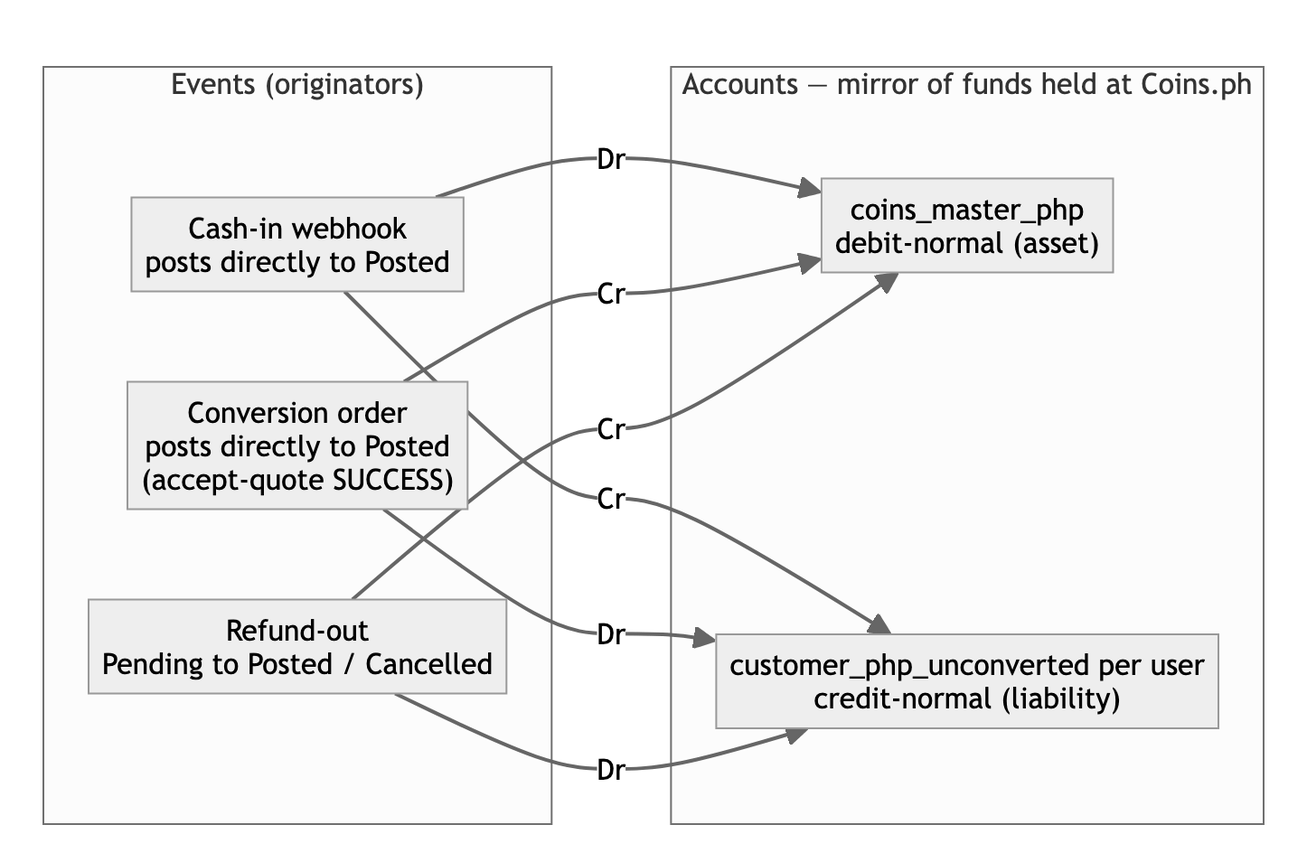
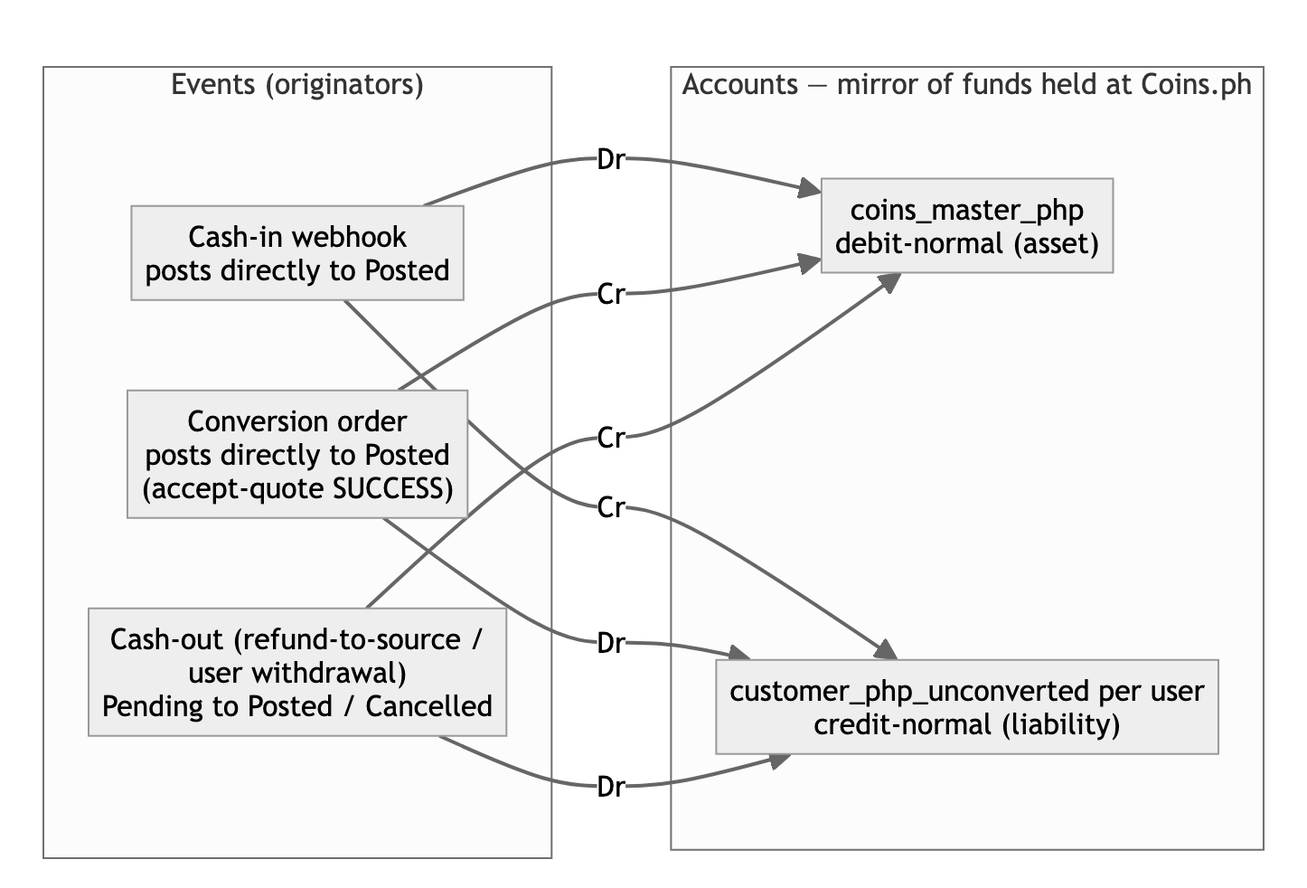
Ledger: refund_out unified into cash_out (one PHP-out type over fiat/v1/cash-out; cash_out_type = refund_to_source / user_withdrawal carries the policy rules) — Steve 10/02

diff --git a/tracks/c-usdc-vasp-privy/research/diagrams/order-lifecycle.html b/tracks/c-usdc-vasp-privy/research/diagrams/order-lifecycle.html
@@ -2,9 +2,9 @@
 <script src="https://cdnjs.cloudflare.com/ajax/libs/mermaid/10.9.1/mermaid.min.js"></script>
 <style>html{overflow:hidden}body{background:#fff;margin:0;padding:16px;font-family:-apple-system,Helvetica,Arial}</style>
 </head><body><pre class="mermaid">stateDiagram-v2
-    [*] --> Pending: refund initiated —<br/>funds earmarked (pending JEs)
+    [*] --> Pending: cash-out initiated —<br/>funds earmarked (pending JEs)
     Pending --> Posted: provider confirms payout —<br/>pending JEs discarded, posted JEs written
-    Pending --> Cancelled: refund fails — no net effect,<br/>PHP stays unconverted (ops alerted)
+    Pending --> Cancelled: cash-out fails — no net effect,<br/>PHP stays unconverted (ops alerted)
     Posted --> [*]
     Cancelled --> [*]
 </pre>

diff --git a/tracks/c-usdc-vasp-privy/research/diagrams/ledger-postings.html b/tracks/c-usdc-vasp-privy/research/diagrams/ledger-postings.html
@@ -5,7 +5,7 @@
   subgraph EVENTS["Events (originators)"]
     CI["Cash-in webhook<br/>posts directly to Posted"]
     CV["Conversion order<br/>posts directly to Posted<br/>(accept-quote SUCCESS)"]
-    RF["Refund-out<br/>Pending to Posted / Cancelled"]
+    RF["Cash-out (refund-to-source /<br/>user withdrawal)<br/>Pending to Posted / Cancelled"]
   end
   subgraph ACCOUNTS["Accounts — mirror of funds held at Coins.ph"]
     MA["coins_master_php<br/>debit-normal (asset)"]

diff --git a/tracks/c-usdc-vasp-privy/research/diagrams/schema-er.html b/tracks/c-usdc-vasp-privy/research/diagrams/schema-er.html
@@ -4,7 +4,7 @@
 </head><body><pre class="mermaid">erDiagram
   coins_cash_in_events |o--o| Ledger_Groups : opens
   coins_orders |o--o| Ledger_Groups : opens
-  coins_refunds |o--|| Ledger_Groups : opens
+  coins_cash_outs |o--|| Ledger_Groups : opens
   ledger_adjustments |o--|| Ledger_Groups : opens
   Ledger_Groups ||--|{ Ledger_Transactions : "has 1 or 2"
   Ledger_Transactions ||--|{ Ledger_Entries : "contains 2"

diff --git a/tracks/c-usdc-vasp-privy/research/php-ledger-design.md b/tracks/c-usdc-vasp-privy/research/php-ledger-design.md
@@ -1,6 +1,6 @@
 # PHP Pending-Balance Ledger — design v0.1
 
-**Status:** draft, updated 2026-10-02 (no Pending stage for conversions in the MVP, decided 10/02 — post to Posted on the accept-quote **terminal `SUCCESS`**, refined same day from the public REST docs; refund-out keeps the two-step lifecycle — §§1–5, D-L8/D-L10). Implements PRD C-R7/C-R7a/C-R4b.
+**Status:** draft, updated 2026-10-02 (no Pending stage for conversions in the MVP, decided 10/02 — post to Posted on the accept-quote **terminal `SUCCESS`**, refined same day from the public REST docs; **refund-out unified into `cash_out`** (one PHP-out type; `cash_out_type` = refund_to_source / user_withdrawal — Steve, 10/02), which keeps the two-step lifecycle — §§1–5, D-L8/D-L10). Implements PRD C-R7/C-R7a/C-R4b.
 **Lineage:** deliberately follows the conventions of Steve's card-product design ("Shadow Ledger Redux," Notion, fetched 9/23 → SOURCES.md): the `Ledger_Accounts` / `Ledger_Transactions` / `Ledger_Entries` triad, credit/debit-normal accounts, Pending→Posted lifecycle via `group_id` + `discarded_at`, account-level balance state maintained under row locks, an originator table behind every ledger posting. Where this design diverges, the divergence is called out with a ❖.
 
 ## 0. Why this is the simple case
@@ -26,7 +26,7 @@ flowchart LR
   subgraph EVENTS["Events (originators)"]
     CI["Cash-in webhook<br/>posts directly to Posted"]
     CV["Conversion order<br/>posts directly to Posted<br/>(accept-quote SUCCESS)"]
-    RF["Refund-out<br/>Pending to Posted / Cancelled"]
+    RF["Cash-out (refund-to-source /<br/>user withdrawal)<br/>Pending to Posted / Cancelled"]
   end
   subgraph ACCOUNTS["Accounts — mirror of funds held at Coins.ph"]
     MA["coins_master_php<br/>debit-normal (asset)"]
@@ -40,7 +40,7 @@ flowchart LR
   RF -->|"Cr"| MA
 ```
 
-❖ **No clearing/in-flight accounts.** Where in-flight state exists at all (refund-out only — conversions post synchronously, §3), it is carried by `status = Pending` transactions on a `group_id`, exactly like a card auth. Alternative considered: explicit clearing accounts — rejected for v0.1 (adds accounts without adding information; revisit if ops wants in-flight as a balance-sheet line). **← Steve to confirm (D-L1).**
+❖ **No clearing/in-flight accounts.** Where in-flight state exists at all (cash-out only — conversions post synchronously, §3), it is carried by `status = Pending` transactions on a `group_id`, exactly like a card auth. Alternative considered: explicit clearing accounts — rejected for v0.1 (adds accounts without adding information; revisit if ops wants in-flight as a balance-sheet line). **← Steve to confirm (D-L1).**
 
 ## 2. Tables and schemas
 
@@ -50,7 +50,7 @@ flowchart LR
 erDiagram
   coins_cash_in_events |o--o| Ledger_Groups : opens
   coins_orders |o--o| Ledger_Groups : opens
-  coins_refunds |o--|| Ledger_Groups : opens
+  coins_cash_outs |o--|| Ledger_Groups : opens
   ledger_adjustments |o--|| Ledger_Groups : opens
   Ledger_Groups ||--|{ Ledger_Transactions : "has 1 or 2"
   Ledger_Transactions ||--|{ Ledger_Entries : "contains 2"
@@ -62,12 +62,12 @@ erDiagram
 | Table | Kind | One row per |
 |---|---|---|
 | `Ledger_Accounts` | Core | Account — one `coins_master_php`, plus one per user |
-| `Ledger_Groups` | Core | Lifecycle — one cash-in, order, refund, or adjustment |
+| `Ledger_Groups` | Core | Lifecycle — one cash-in, order, cash-out, or adjustment |
 | `Ledger_Transactions` | Core | Accounting transaction — one or two per group (§2.4) |
 | `Ledger_Entries` | Core | Debit or credit line — two per transaction |
 | `coins_cash_in_events` | Originator | Cash-in webhook received |
 | `coins_orders` | Originator | Conversion order |
-| `coins_refunds` | Originator | Refund-out |
+| `coins_cash_outs` | Originator | Cash-out (refund-to-source or user withdrawal) |
 | `ledger_adjustments` | Originator | Dual-approved manual correction |
 
 ### 2.2 Core ledger tables
@@ -95,7 +95,7 @@ Redux's tables, with the changes marked ❖.
 | Field | Type | Description |
 |---|---|---|
 | `id` | UUID, primary key | The `group_id` that ties a Pending transaction to its replacement |
-| `group_type` | Enum: `cash_in` / `conversion` / `refund_out` / `adjustment` | Redux's values are Charge / Payment |
+| `group_type` | Enum: `cash_in` / `conversion` / `cash_out` / `adjustment` | Redux's values are Charge / Payment |
 | `created_at` | Datetime | |
 
 **`Ledger_Transactions`**
@@ -105,7 +105,7 @@ Redux's tables, with the changes marked ❖.
 | `id` | UUID, primary key | |
 | `group_id` | UUID, foreign key → `Ledger_Groups` | Every transaction belongs to a group |
 | `status` | Enum: `pending` / `posted` / `cancelled` | Written once at insert, never updated |
-| `transaction_type` | Enum: `cash_in` / `conversion` / `refund_out` / `adjustment` | Same value as the group's `group_type` |
+| `transaction_type` | Enum: `cash_in` / `conversion` / `cash_out` / `adjustment` | Same value as the group's `group_type` |
 | `effective_at` | Datetime | When the event took effect at Coins.ph |
 | `discarded_at` | Datetime, nullable | Set once, when a Pending transaction is replaced — the only field updated after insert |
 | `created_at` | Datetime | |
@@ -126,7 +126,7 @@ Constraint: at most one non-discarded transaction per group (partial unique inde
 
 ### 2.3 Originator tables
 
-Each originator row opens one group and points at it with `group_id`. ❖ Redux's originators (Network_Messages, Payments) point at a single `ledger_transaction_id`; here a refund writes two transactions on one group, so the link is to the group (conversions write one since the 10/02 decision, but keep the same shape). **← Steve to confirm (D-L9).**
+Each originator row opens one group and points at it with `group_id`. ❖ Redux's originators (Network_Messages, Payments) point at a single `ledger_transaction_id`; here a cash-out writes two transactions on one group, so the link is to the group (conversions write one since the 10/02 decision, but keep the same shape). **← Steve to confirm (D-L9).**
 
 Columns marked "Coins.ph" come from its webhooks and API responses. Their field names are not confirmed yet (OQ-6) and get mapped when test-environment payloads are captured.
 
@@ -165,13 +165,13 @@ Columns marked "Coins.ph" come from its webhooks and API responses. Their field 
 
 Constraint: at most one `initiated` order per user (partial unique index on `user_id` where `status = 'initiated'`) — the double-convert guard now that conversions carry no ledger hold (§5).
 
-**`coins_refunds`** — one row per refund-out.
+**`coins_cash_outs`** — one row per cash-out (PHP out, via `fiat/v1/cash-out` or ops). One mechanical type covers both intents — same endpoint, postings, and lifecycle; `cash_out_type` carries the distinction and its rules: `refund_to_source` pays the deposit's original funding source (sender details from the cash-in `raw_payload`; never a Zed account — C-R4b(d)) and is maker-checker approved when ops-initiated; `user_withdrawal` is user-instructed, to the user's own account.
 
 | Field | Type | Description | Source |
 |---|---|---|---|
 | `id` | UUID, primary key | | Zed |
 | `user_id` | UUID, foreign key | | Zed |
-| `refund_type` | Enum: `refund_to_source` / `user_withdrawal` | C-R6 remedy, or user-requested PHP withdrawal | Zed |
+| `cash_out_type` | Enum: `refund_to_source` / `user_withdrawal` | C-R6 remedy, or user-requested PHP withdrawal | Zed |
 | `mechanism` | Enum: `api` / `manual` | API if Coins.ph supports it (OQ-13); otherwise ops through Coins.ph's interface | Zed |
 | `amount` | `BIGINT` centavos | | Zed |
 | `destination` | JSONB | Bank or e-wallet account the PHP returns to | Cash-in payload, or user input |
@@ -200,7 +200,7 @@ Constraint: at most one `initiated` order per user (partial unique index on `use
 |---|---|---|---|
 | `cash_in` | one `coins_cash_in_events` | One: Posted | Dr `coins_master_php` / Cr customer |
 | `conversion` | one `coins_orders` | One: Posted, written on the accept-quote terminal `SUCCESS` (normally inline in the response). A decline or FAILED writes no ledger rows (order row marked `failed`) | Dr customer / Cr `coins_master_php` |
-| `refund_out` | one `coins_refunds` | Two: Pending at initiation, then Posted (confirmed) or Cancelled (failed); the Pending row gets `discarded_at` | Dr customer / Cr `coins_master_php` |
+| `cash_out` | one `coins_cash_outs` | Two: Pending at initiation, then Posted (confirmed) or Cancelled (failed); the Pending row gets `discarded_at` | Dr customer / Cr `coins_master_php` |
 | `adjustment` | one `ledger_adjustments` | One: Posted | Compensating entries, per case |
 
 §3 walks through these rows for each type.
@@ -265,22 +265,22 @@ The later order webhook adds the tx hash to `coins_orders` — delivery confirma
 
 The ₱3,000 becomes unavailable the moment the Posted transaction lands — normally sub-seconds after the user confirms. Until then (the pre-call window, or a rare non-terminal response) the double-convert guard is the one-open-order rule (§2.3, §5), not a ledger hold.
 
-### Refund-out: user_1 gets ₱2,000 returned to source
+### Cash-out: user_1 gets ₱2,000 paid out (refund-to-source shown; a user withdrawal is mechanically identical)
 
-**The only two-step type in v0.1** — a provider payout confirmation is genuinely asynchronous (confirmed by the public docs: `fiat/v1/cash-out` returns order IDs, not a result, and Coins.ph allows only one cash-out in progress per account — error 88010012, which also means ops must serialize refunds at the master-account level), so the Pending lifecycle stays here: Pending (Dr `cust_u1` / Cr `coins_master_php`) on initiation → on confirmation, discard the Pending (`discarded_at` set) and write its Posted replacement on the same `group_id` in one atomic DB transaction (§5) → or Cancelled on failure (no net effect). Identical whether executed via API (if OQ-13 confirms) or manually by ops through Coins' interface (dual-approved; postings entered via `adjustment`-style tooling but typed `refund_out`).
+**The only two-step type in v0.1** — a provider payout confirmation is genuinely asynchronous (confirmed by the public docs: `fiat/v1/cash-out` returns order IDs, not a result, and Coins.ph allows only one cash-out in progress per account — error 88010012, which also means ops must serialize cash-outs at the master-account level), so the Pending lifecycle stays here: Pending (Dr `cust_u1` / Cr `coins_master_php`) on initiation → on confirmation, discard the Pending (`discarded_at` set) and write its Posted replacement on the same `group_id` in one atomic DB transaction (§5) → or Cancelled on failure (no net effect). Identical whether executed via API (if OQ-13 confirms) or manually by ops through Coins' interface (dual-approved; postings entered via `adjustment`-style tooling but typed `cash_out`).
 
 ```mermaid
 stateDiagram-v2
-    [*] --> Pending: refund initiated —<br/>funds earmarked (pending JEs)
+    [*] --> Pending: cash-out initiated —<br/>funds earmarked (pending JEs)
     Pending --> Posted: provider confirms payout —<br/>pending JEs discarded, posted JEs written
-    Pending --> Cancelled: refund fails — no net effect,<br/>PHP stays unconverted (ops alerted)
+    Pending --> Cancelled: cash-out fails — no net effect,<br/>PHP stays unconverted (ops alerted)
     Posted --> [*]
     Cancelled --> [*]
 ```
 
-The ₱2,000 is unavailable from the moment the refund is initiated: **`available_balance`** (§4.2) counts pending decreases.
+The ₱2,000 is unavailable from the moment the cash-out is initiated: **`available_balance`** (§4.2) counts pending decreases.
 
-❖ **Not the Redux `current_balance`,** as the first version of this doc called it. That formula counts pending increases and ignores pending decreases, so it would leave the ₱2,000 spendable while the refund is in flight. Behavior is unchanged; the name and formula are corrected (§4.2). **← Steve to confirm (D-L6).**
+❖ **Not the Redux `current_balance`,** as the first version of this doc called it. That formula counts pending increases and ignores pending decreases, so it would leave the ₱2,000 spendable while the cash-out is in flight. Behavior is unchanged; the name and formula are corrected (§4.2). **← Steve to confirm (D-L6).**
 
 ## 4. Balance model
 
@@ -323,18 +323,18 @@ Shorthand: PD = `posted_debits`, PC = `posted_credits`, UD = `pending_debits`, U
 
 - **Computed on read** (query, view, getter, or generated column); writers only move the four counters.
 - **`pending_balance` keeps its Redux meaning** — it is not the net of pending-only entries (`UC - UD`).
-- **`available_balance` is what the app displays** and what every conversion and refund-out request is checked against (§5).
-- **In v0.1 the pending counters move only on refund-out** — conversions post synchronously on the 200 (§3) and cash-in posts directly (D-L2).
+- **`available_balance` is what the app displays** and what every conversion and cash-out request is checked against (§5).
+- **In v0.1 the pending counters move only on cash-out** — conversions post synchronously on the 200 (§3) and cash-in posts directly (D-L2).
 - **In v0.1 customer accounts never have pending credits** (cash-in posts directly, D-L2), so `available_balance` equals `pending_balance`. If a pending cash-in stage is added, an uncleared deposit is correctly not spendable.
 - **`coins_master_php` has no spending decision:** `posted_balance` anchors external reconciliation (I3); `pending_balance` serves I1.
 
 ## 5. Write path, concurrency and correctness
 
-**The flow to build:** every ledger event (cash-in webhook, conversion posting on accept-quote `SUCCESS`, refund step, adjustment) runs in one database transaction:
+**The flow to build:** every ledger event (cash-in webhook, conversion posting on accept-quote `SUCCESS`, cash-out step, adjustment) runs in one database transaction:
 
 1. **Establish idempotency.** Insert the originator row; its unique key (§2.3) makes a replay stop here. For lifecycle events, a group that already has a Posted or Cancelled transaction (read under the step-2 lock) is not processed again.
 2. **Lock in a fixed order:** the customer account row (ascending `id` if more than one), then `coins_master_php`, then the `Ledger_Groups` row — all `SELECT … FOR UPDATE`.
-3. **Decide under the locks.** Approve a conversion or refund-out only if `available_balance ≥ amount` — and a conversion only if the user has no `initiated` order (the §2.3 partial unique index backstops this); otherwise decline and write nothing.
+3. **Decide under the locks.** Approve a conversion or cash-out only if `available_balance ≥ amount` — and a conversion only if the user has no `initiated` order (the §2.3 partial unique index backstops this); otherwise decline and write nothing.
 4. **Validate.** Entries balance (I2); only an active Pending transaction can be replaced — Posted and Cancelled are terminal.
 5. **Write the journal.** Insert the new transaction and entries. To replace a Pending transaction: `UPDATE … SET discarded_at = now() WHERE group_id = … AND status = 'pending' AND discarded_at IS NULL RETURNING …` — only returned rows count as removed, so a repeated discard subtracts nothing.
 6. **Apply counter deltas** to every account the entries touch — the customer account and `coins_master_php`.
@@ -360,15 +360,15 @@ Centavos, following the §3 scenario.
 | Cash-in ₱5,000 (posts directly) | `posted_credits += 500000` | `posted_debits += 500000` |
 | Conversion ₱3,000 — accept-quote `SUCCESS` (Posted written) | `posted_debits += 300000` | `posted_credits += 300000` |
 | Conversion declined or FAILED (no ledger rows) | no change | no change |
-| Refund-out ₱2,000 initiated (Pending written) | `pending_debits += 200000` | `pending_credits += 200000` |
-| Refund-out confirmed (Pending discarded, Posted written) | `pending_debits -= 200000`; `posted_debits += 200000` | `pending_credits -= 200000`; `posted_credits += 200000` |
-| Refund-out failed (Pending discarded, Cancelled written) | `pending_debits -= 200000` | `pending_credits -= 200000` |
+| Cash-out ₱2,000 initiated (Pending written) | `pending_debits += 200000` | `pending_credits += 200000` |
+| Cash-out confirmed (Pending discarded, Posted written) | `pending_debits -= 200000`; `posted_debits += 200000` | `pending_credits -= 200000`; `posted_credits += 200000` |
+| Cash-out failed (Pending discarded, Cancelled written) | `pending_debits -= 200000` | `pending_credits -= 200000` |
 | Replayed webhook or repeated discard | no change | no change |
 | Adjustment (posted, compensating entries) | `posted_debits` or `posted_credits` `+=` amount, per entry | `posted_debits` or `posted_credits` `+=` amount, per entry |
 
-`cust_u1` after each step (the §3 scenario end to end — note the pending counters move only in the refund steps):
+`cust_u1` after each step (the §3 scenario end to end — note the pending counters move only in the cash-out steps):
 
-| | After cash-in ₱5,000 | After conversion ₱3,000 (Posted on SUCCESS) | After refund-out ₱2,000 initiated | After refund confirmed |
+| | After cash-in ₱5,000 | After conversion ₱3,000 (Posted on SUCCESS) | After cash-out ₱2,000 initiated | After cash-out confirmed |
 |---|---|---|---|---|
 | `posted_credits` | 500000 | 500000 | 500000 | 500000 |
 | `posted_debits` | 0 | 300000 | 300000 | 500000 |
@@ -381,7 +381,7 @@ Centavos, following the §3 scenario.
 ### Amounts that differ, and partial completion
 
 - **A conversion posts the accepted quote amount at terminal `SUCCESS`.** If the eventual order webhook reports a different executed amount, that is a reconciliation break (§6.2) remedied by a dual-approved `adjustment` — a Posted transaction is never edited.
-- **For refund-out, the Posted amount comes from the confirmation event**, not the Pending transaction. If they differ, the pending counter drops by the Pending amount and the posted counter rises by the Posted amount.
+- **For cash-out, the Posted amount comes from the confirmation event**, not the Pending transaction. If they differ, the pending counter drops by the Pending amount and the posted counter rises by the Posted amount.
 - **v0.1 assumes orders fill whole, exactly once.** Partial fills, multiple completions, and over- or under-payment are not modeled — whether Coins.ph orders can settle that way is open (OQ-3). For conversions these would now surface as recon breaks + adjustments rather than a remaining-hold problem. **→ D-L7.**
 
 ### Why the lock matters
@@ -415,17 +415,17 @@ pending_credits == SUM(amount) of credit entries on pending, non-discarded trans
 
 ### 6.2 External: ledger vs. Coins.ph and the chain
 
-1. **Aggregate:** `coins_master_php.posted_balance` vs Coins-side master-account figure (mechanism → OQ-12a). Until an aggregate API exists: derived check = Σ(cash-in webhooks) − Σ(completed orders) − Σ(refunds) vs our balance — weaker (events-only), flagged as such.
+1. **Aggregate:** `coins_master_php.posted_balance` vs Coins-side master-account figure (mechanism → OQ-12a). Until an aggregate API exists: derived check = Σ(cash-in webhooks) − Σ(completed orders) − Σ(cash-outs) vs our balance — weaker (events-only), flagged as such.
 2. **Per-order:** every `coins_orders` row vs Coins order-status API; every completed order has a tx hash whose on-chain USDC delivery to the user's Privy address is verified (ties into the C-R4 record).
 3. **Per-user (if OQ-12b):** `customer_php_unconverted:{u}` vs Coins `coinsUserId` attribution.
 
 ## 7. Open design questions (for Steve)
 
-1. **D-L1:** Lean model (no clearing accounts; refund-out in-flight carried as Pending-status transactions) — confirm, or explicit in-flight accounts?
+1. **D-L1:** Lean model (no clearing accounts; cash-out in-flight carried as Pending-status transactions) — confirm, or explicit in-flight accounts?
 2. **D-L2:** Cash-in posts straight to Posted — confirm, or model a pending stage for rail-recall risk?
 3. **D-L3:** Integer centavos everywhere — confirm the Decimal→BIGINT standardization?
 4. **D-L4:** Build as the first implementation of generic Redux core tables (shared later with cards) vs. wallet-local tables? Also decides where the counters live (account row vs. per-currency balance table, §4.1).
-5. **D-L5 (product):** promoted to PRD decision **C-D17 (HELD, Steve 9/23)** — stale unconverted-PHP policy: auto-refund-to-source after N days vs. nudge-only. The ledger supports either (refund_out postings exist regardless).
+5. **D-L5 (product):** promoted to PRD decision **C-D17 (HELD, Steve 9/23)** — stale unconverted-PHP policy: auto-refund-to-source after N days vs. nudge-only. The ledger supports either (cash_out postings exist regardless).
 6. **D-L6:** `available_balance` (`PC - (PD + UD)`), not Redux's `current_balance`, as the customer account's spending measure — confirm name and formula (§4.2).
 7. **D-L7:** Can Coins.ph orders partially fill or complete more than once (OQ-3)? For conversions this now surfaces in reconciliation (break + `adjustment`) rather than as a hold rule (§5); confirm that's acceptable, or revisit if Coins.ph says partial settlement is real.
 8. **D-L8 (revised 10/02):** the pre-`acceptQuote` ledger earmark is gone with the Pending stage; the reservation is the `initiated` order row plus the one-open-order-per-user rule (§2.3, §5). Confirm the UX consequence: a user cannot start a second conversion while one is in flight (a sub-second window in practice).
@@ -434,4 +434,4 @@ pending_credits == SUM(amount) of credit entries on pending, non-discarded trans
 
 ## Coins.ph API validation (Steve's question: "transfer it out of Coins")
 
-Two distinct "outs" exist conceptually: (a) **refund of un-converted PHP back to the funding source** — our C-R6 default remedy; (b) **user-elected PHP withdrawal** to their bank. The 9/14 recap confirms Coins runs PHP-outbound rails (InstaPay/PESONet) for the crypto off-ramp, so the capability exists on their side; whether the **merchant API exposes fiat-out for pending PHP** (either flavor) is not visible in their public docs (a "Transfers" module exists; no documented fiat cash-out of un-converted deposits found). → **OQ-13** to their tech contacts. The ledger supports both outcomes: if API-supported, `refund_out` is automated; if not, it's an ops runbook with identical postings.
+Two distinct "outs" exist conceptually: (a) **refund of un-converted PHP back to the funding source** — our C-R6 default remedy; (b) **user-elected PHP withdrawal** to their bank. The 9/14 recap confirms Coins runs PHP-outbound rails (InstaPay/PESONet) for the crypto off-ramp, so the capability exists on their side; whether the **merchant API exposes fiat-out for pending PHP** (either flavor) is not visible in their public docs (a "Transfers" module exists; no documented fiat cash-out of un-converted deposits found). → **OQ-13** to their tech contacts. The ledger supports both outcomes: if API-supported, `cash_out` is automated; if not, it's an ops runbook with identical postings.

diff --git a/tracks/c-usdc-vasp-privy/research/coinsph-integration.md b/tracks/c-usdc-vasp-privy/research/coinsph-integration.md
@@ -78,7 +78,7 @@ Per the recap: crypto confirmed on-chain first, then PHP released. Mechanics (de
 - **OQ-6.** Webhook auth/signing, retry semantics, idempotency, sandbox↔prod parity.
 - **OQ-7.** Limits: per-user/per-txn/daily caps, and whose (Coins') compliance thresholds trigger enhanced review.
 - **OQ-14.** Cash-in webhook clearing semantics: confirm the webhook fires only on **cleared** funds (no pre-clearing/"pending deposit" state exists in the API — consistent with the thread; nothing they've said suggests otherwise), and whether a deposit can be recalled/reversed *after* the webhook per rail (InstaPay vs. PESONet), and how such a reversal is signaled. Drives the ledger's cash-in-posts-to-Posted rule (D-L2) and the adjustment path.
-- **OQ-13.** Fiat-out for pending PHP: does the merchant API support (a) refunding an un-converted deposit back to its funding source, and/or (b) a user-elected PHP withdrawal to their bank — without converting to crypto? **Public-docs update (10/02): capability confirmed at the API level** — `POST /openapi/fiat/v1/cash-out` withdraws PHP from the account's fiat balance to a named recipient account over InstaPay/PESONet (per-channel fees and limits; one cash-out in progress at a time, error 88010012; asynchronous — which validates refund_out's Pending lifecycle in the ledger). Remaining for Coins.ph: does cash-out operate on Zed's master account under the merchant model; can it target the deposit's original funding source using the cash-in payload's sender details (true refund-to-source, C-R4b(d)); how is the per-customer attribution of the outflow recorded on their side?
+- **OQ-13.** Fiat-out for pending PHP: does the merchant API support (a) refunding an un-converted deposit back to its funding source, and/or (b) a user-elected PHP withdrawal to their bank — without converting to crypto? **Public-docs update (10/02): capability confirmed at the API level** — `POST /openapi/fiat/v1/cash-out` withdraws PHP from the account's fiat balance to a named recipient account over InstaPay/PESONet (per-channel fees and limits; one cash-out in progress at a time, error 88010012; asynchronous — which validates the ledger cash_out type's Pending lifecycle). Remaining for Coins.ph: does cash-out operate on Zed's master account under the merchant model; can it target the deposit's original funding source using the cash-in payload's sender details (true refund-to-source, C-R4b(d)); how is the per-customer attribution of the outflow recorded on their side?
 - **OQ-12.** Reconciliation + custody position for the master account: (a) is there an API for the master-account **aggregate balance** and/or periodic statements, and what do they recommend as the recon anchor for deposits-minus-orders? (b) Can Coins attribute pending PHP to the `coinsUserId` on *their* books (vs. tagging only)? (c) **Will Coins confirm in writing that PHP held pending conversion is customer funds held by Coins.ph under its VASP/EMI authority** (Zed acting as interface/recordkeeper)? — supports the C-R4b position; per-user attribution on their books makes it strongest.
 - **OQ-11.** Delivery model optionality: is a destination wallet address required on every exchange order, or does a convert-then-hold variant exist (USDC resting in a Coins-side balance pending a separate withdrawal)? If the latter: whose balance — the user's `coinsUserId` or Zed's master account? (Zed's preference is the bundled direct-delivery path regardless: a Zed-attributed resting USDC balance would create the omnibus-custody fact pattern the architecture avoids.)
 - **OQ-10.** *(from the 9/23 design decision: two-step deposit flow)* Can PHP deposits sit unconverted in the master account until the user initiates conversion? Any maximum holding period or forced-conversion policy? Is the conversion order independently initiable per tagged deposit? Can rails be constrained/labeled so InstaPay is the default path for MVP?
